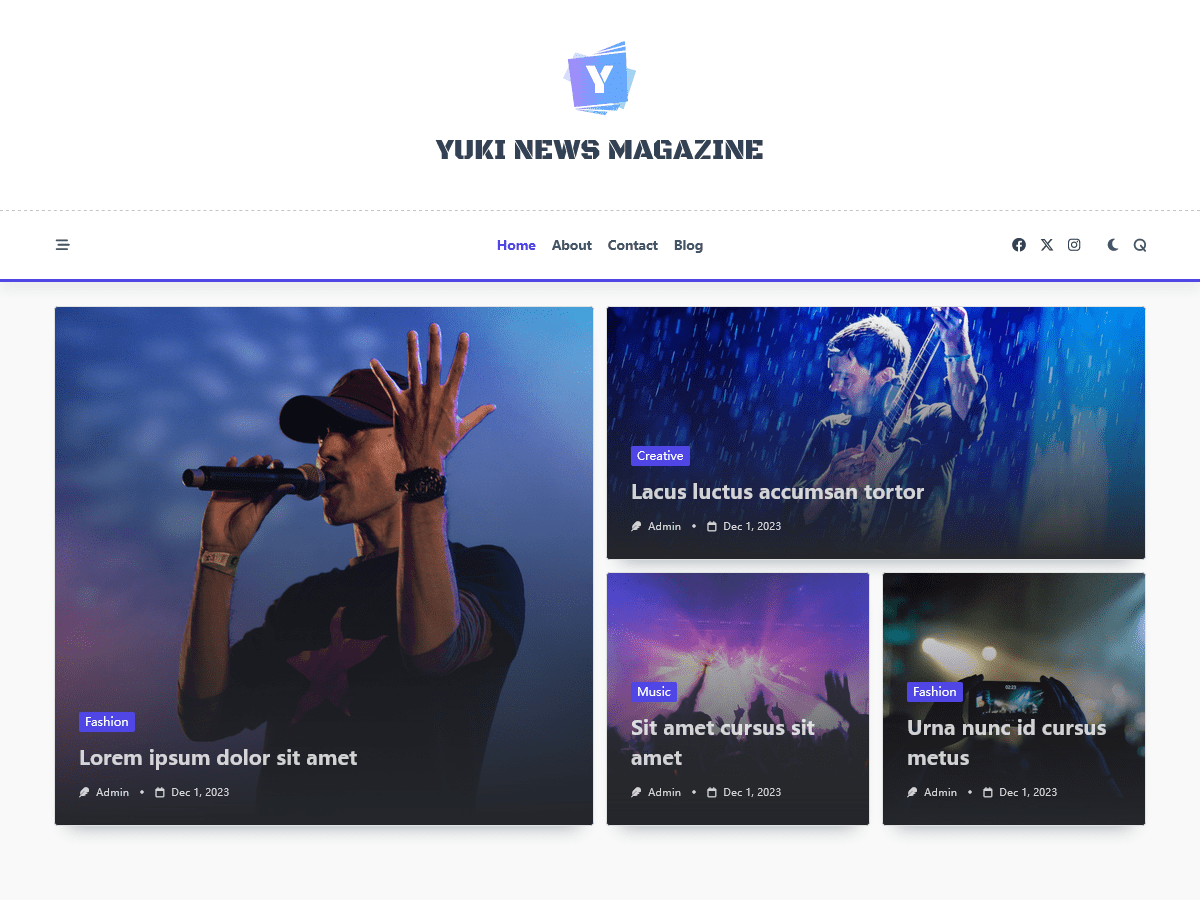
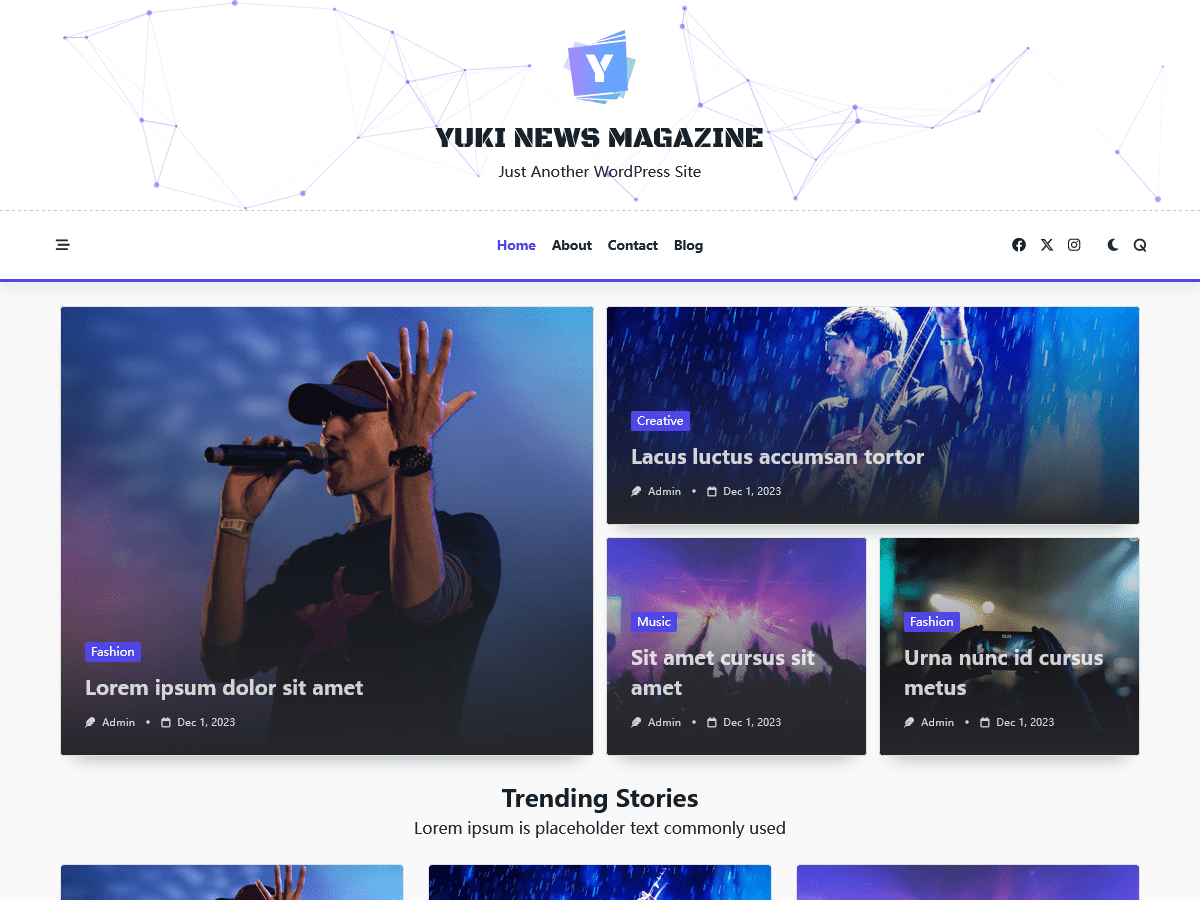
feat: particles effect

diff --git a/style-premium.css b/style-premium.css
@@ -5,7 +5,7 @@ Author:       WP Moose
 Author URI:   https://www.wpmoose.com
 Description:  Yuki News Magazine is a modern and highly customizable theme. It's a child theme of Yuki. It is optimized for online magazines, newspaper, news portals, content publishers. You can fully customize your site with the built-in easy-to-use and intuitive Homepage Builder.
 Template:     yuki-premium
-Version:      1.0.0
+Version:      1.0.1
 Tested up to: 6.4
 Requires PHP: 7.2
 License:      GNU General Public License v2 or later

diff --git a/style.css b/style.css
@@ -5,7 +5,7 @@ Author:       WP Moose
 Author URI:   https://www.wpmoose.com
 Description:  Yuki News Magazine is a modern and highly customizable theme. It's a child theme of Yuki. It is optimized for online magazines, newspaper, news portals, content publishers. You can fully customize your site with the built-in easy-to-use and intuitive Homepage Builder.
 Template:     yuki
-Version:      1.0.0
+Version:      1.0.1
 Tested up to: 6.4
 Requires PHP: 7.2
 License:      GNU General Public License v2 or later

diff --git a/functions.php b/functions.php
@@ -12,7 +12,7 @@ if ( ! defined( 'ABSPATH' ) ) {
 
 if ( ! defined( 'YUKI_NEWS_MAGAZINE_VERSION' ) ) {
 	// Replace the version number of the theme on each release.
-	define( 'YUKI_NEWS_MAGAZINE_VERSION', '1.0.0' );
+	define( 'YUKI_NEWS_MAGAZINE_VERSION', '1.0.1' );
 }
 
 if ( ! defined( 'YUKI_NEWS_MAGAZINE_PATH' ) ) {
@@ -70,8 +70,8 @@ if ( ! function_exists( 'yuki_news_magazine_featured_image_position' ) ) {
 		return 'below';
 	}
 }
-add_filter( 'yuki_post_featured_image_position_default_value', 'yuki_news_magazine_featured_image_position' );
-add_filter( 'yuki_page_featured_image_position_default_value', 'yuki_news_magazine_featured_image_position' );
+//add_filter( 'yuki_post_featured_image_position_default_value', 'yuki_news_magazine_featured_image_position' );
+//add_filter( 'yuki_page_featured_image_position_default_value', 'yuki_news_magazine_featured_image_position' );
 
 //
 // Header top row
@@ -754,3 +754,32 @@ if ( ! function_exists( 'yuki_news_magazine_homepage_design' ) ) {
 	}
 }
 add_filter( 'yuki_news_magazine_homepage_builder_default_value', 'yuki_news_magazine_homepage_design' );
+
+//
+// Particles effect
+//
+add_filter( 'yuki_header_primary_navbar_row_enable_particles_default_value', 'yuki_news_magazine_return_yes' );
+
+if ( ! function_exists( 'yuki_news_magazine_header_primary_navbar_particle_preset' ) ) {
+	function yuki_news_magazine_header_primary_navbar_particle_preset() {
+		return 'gather';
+	}
+}
+add_filter( 'yuki_header_primary_navbar_row_particle_preset_default_value', 'yuki_news_magazine_header_primary_navbar_particle_preset' );
+
+if ( ! function_exists( 'yuki_news_magazine_header_primary_navbar_particle_detect_on' ) ) {
+	function yuki_news_magazine_header_primary_navbar_particle_detect_on() {
+		return 'window';
+	}
+}
+add_filter( 'yuki_header_primary_navbar_row_particle_detect_on_default_value', 'yuki_news_magazine_header_primary_navbar_particle_detect_on' );
+
+if ( ! function_exists( 'yuki_news_magazine_header_primary_navbar_particle_color' ) ) {
+	function yuki_news_magazine_header_primary_navbar_particle_color() {
+		return array(
+			'particle' => '#ffffff',
+			'line'     => '#ffffff',
+		);
+	}
+}
+//add_filter( 'yuki_header_primary_navbar_row_particle_color_default_value', 'yuki_news_magazine_header_primary_navbar_particle_color' );
